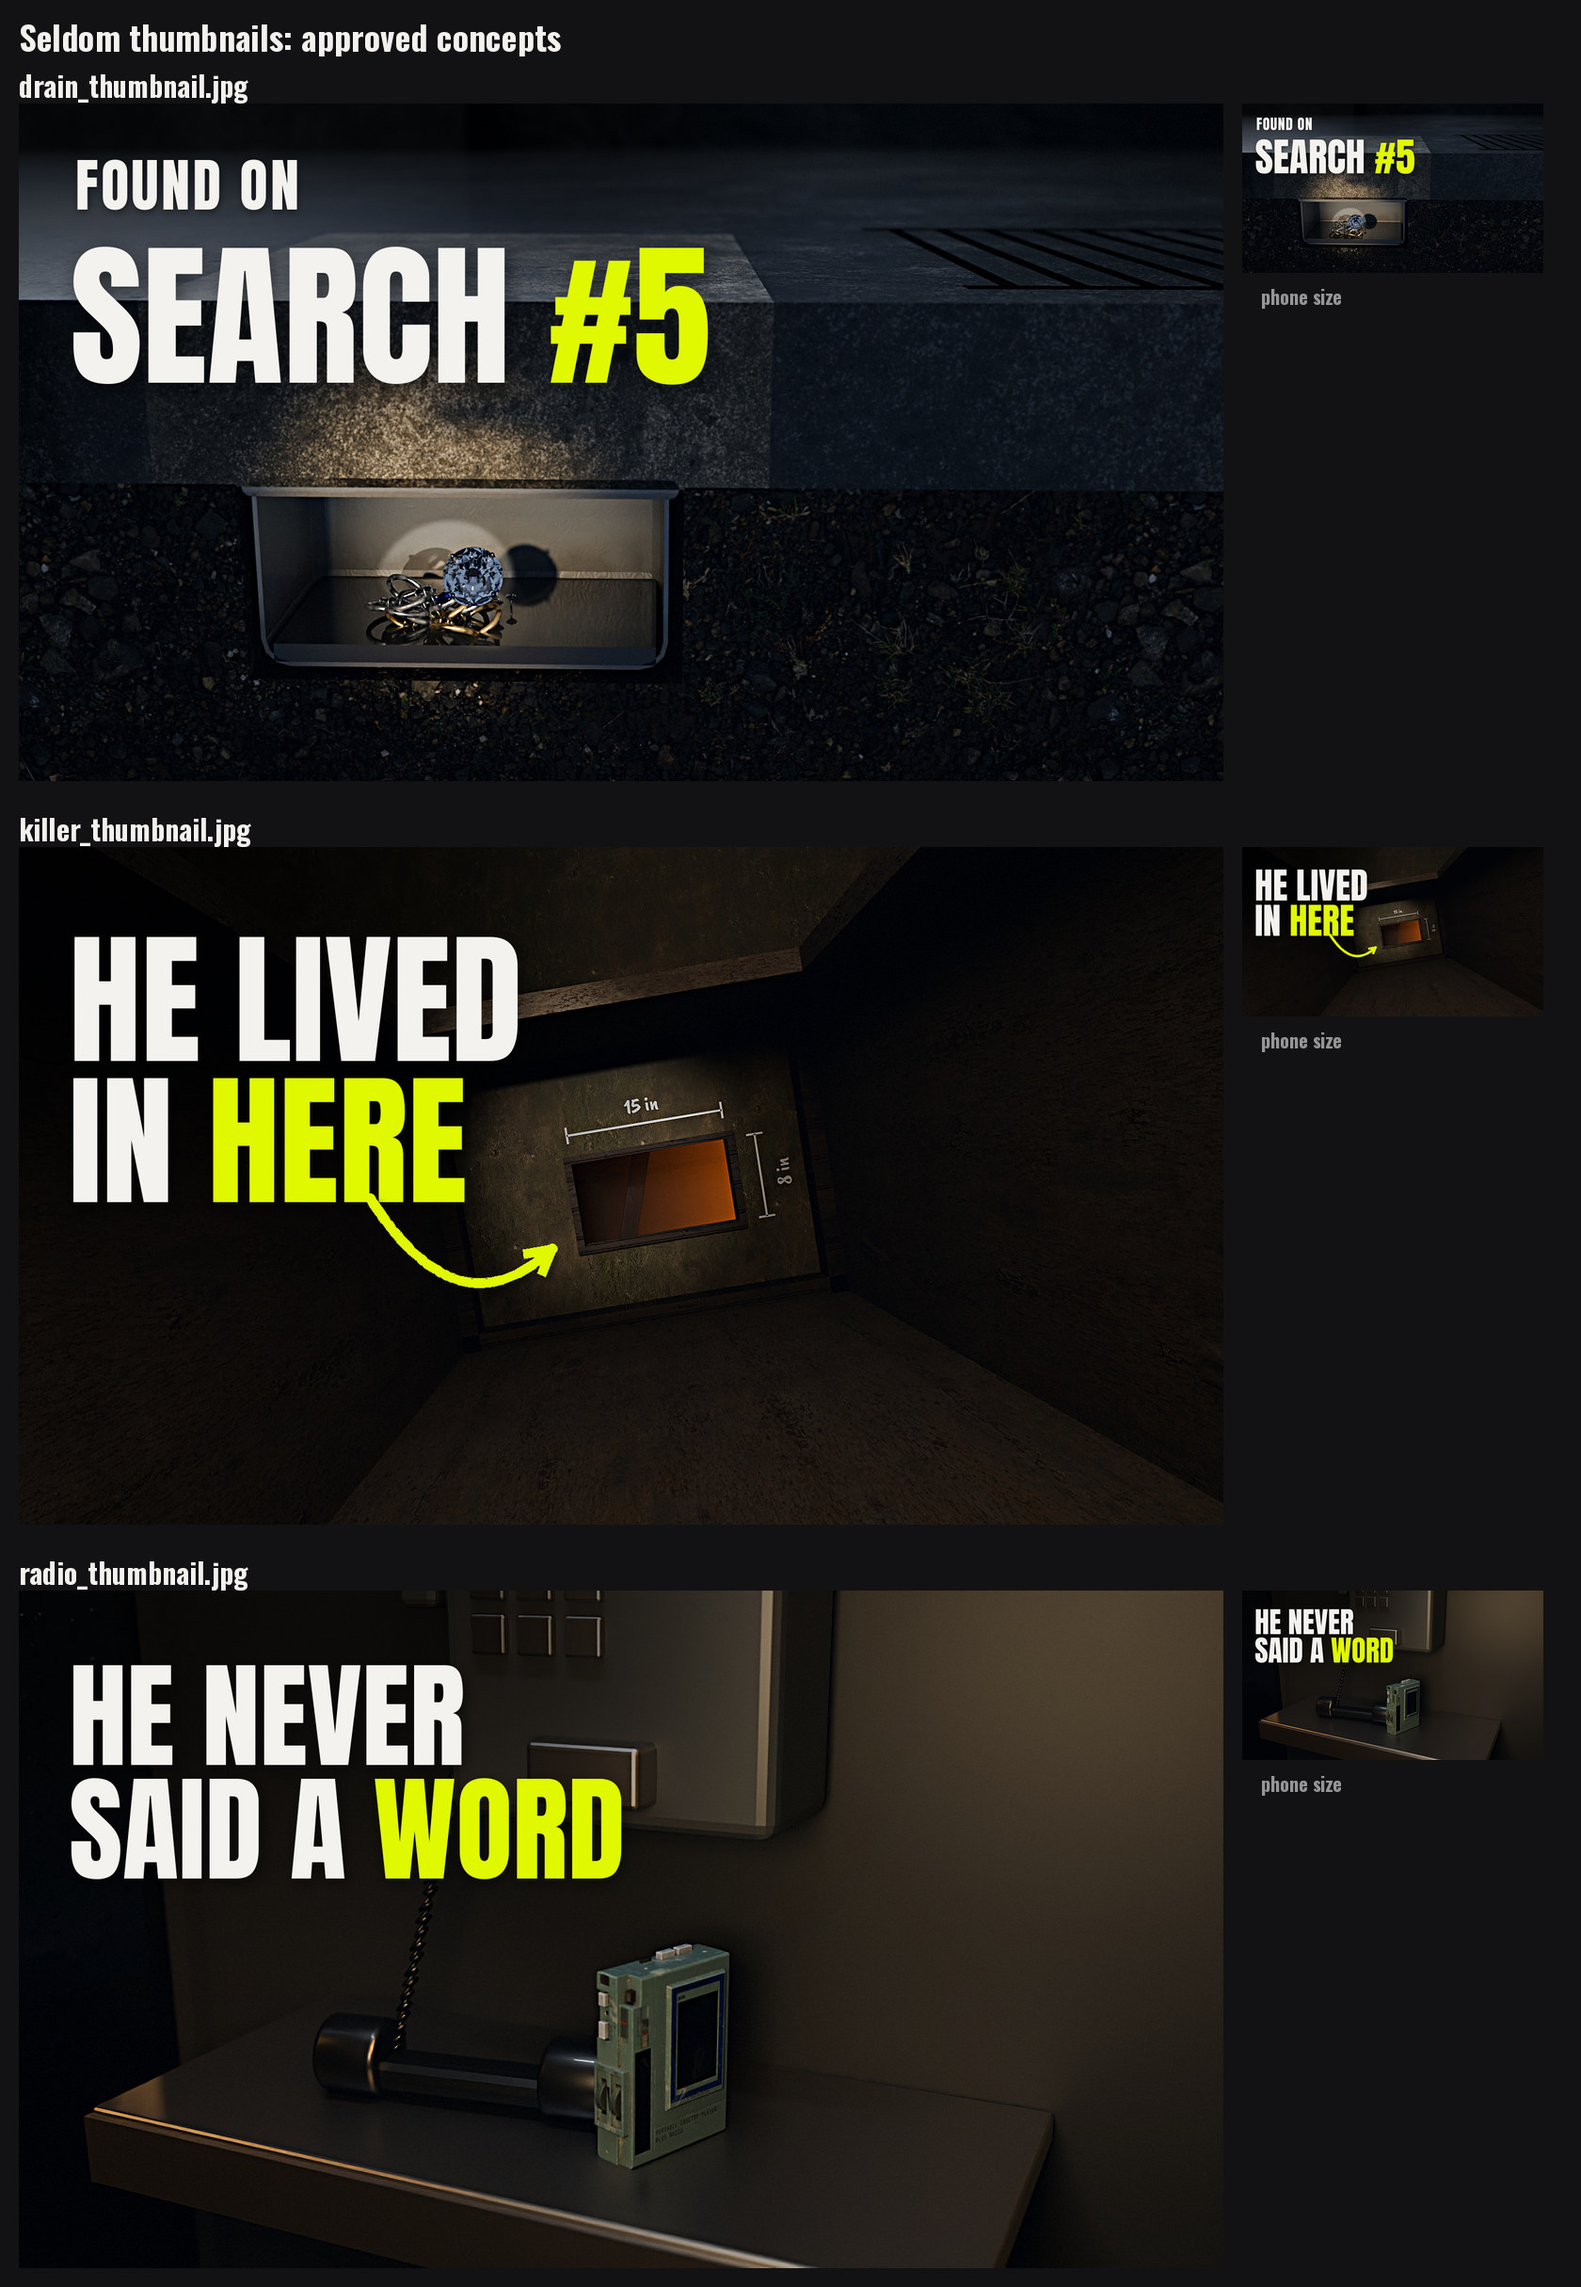
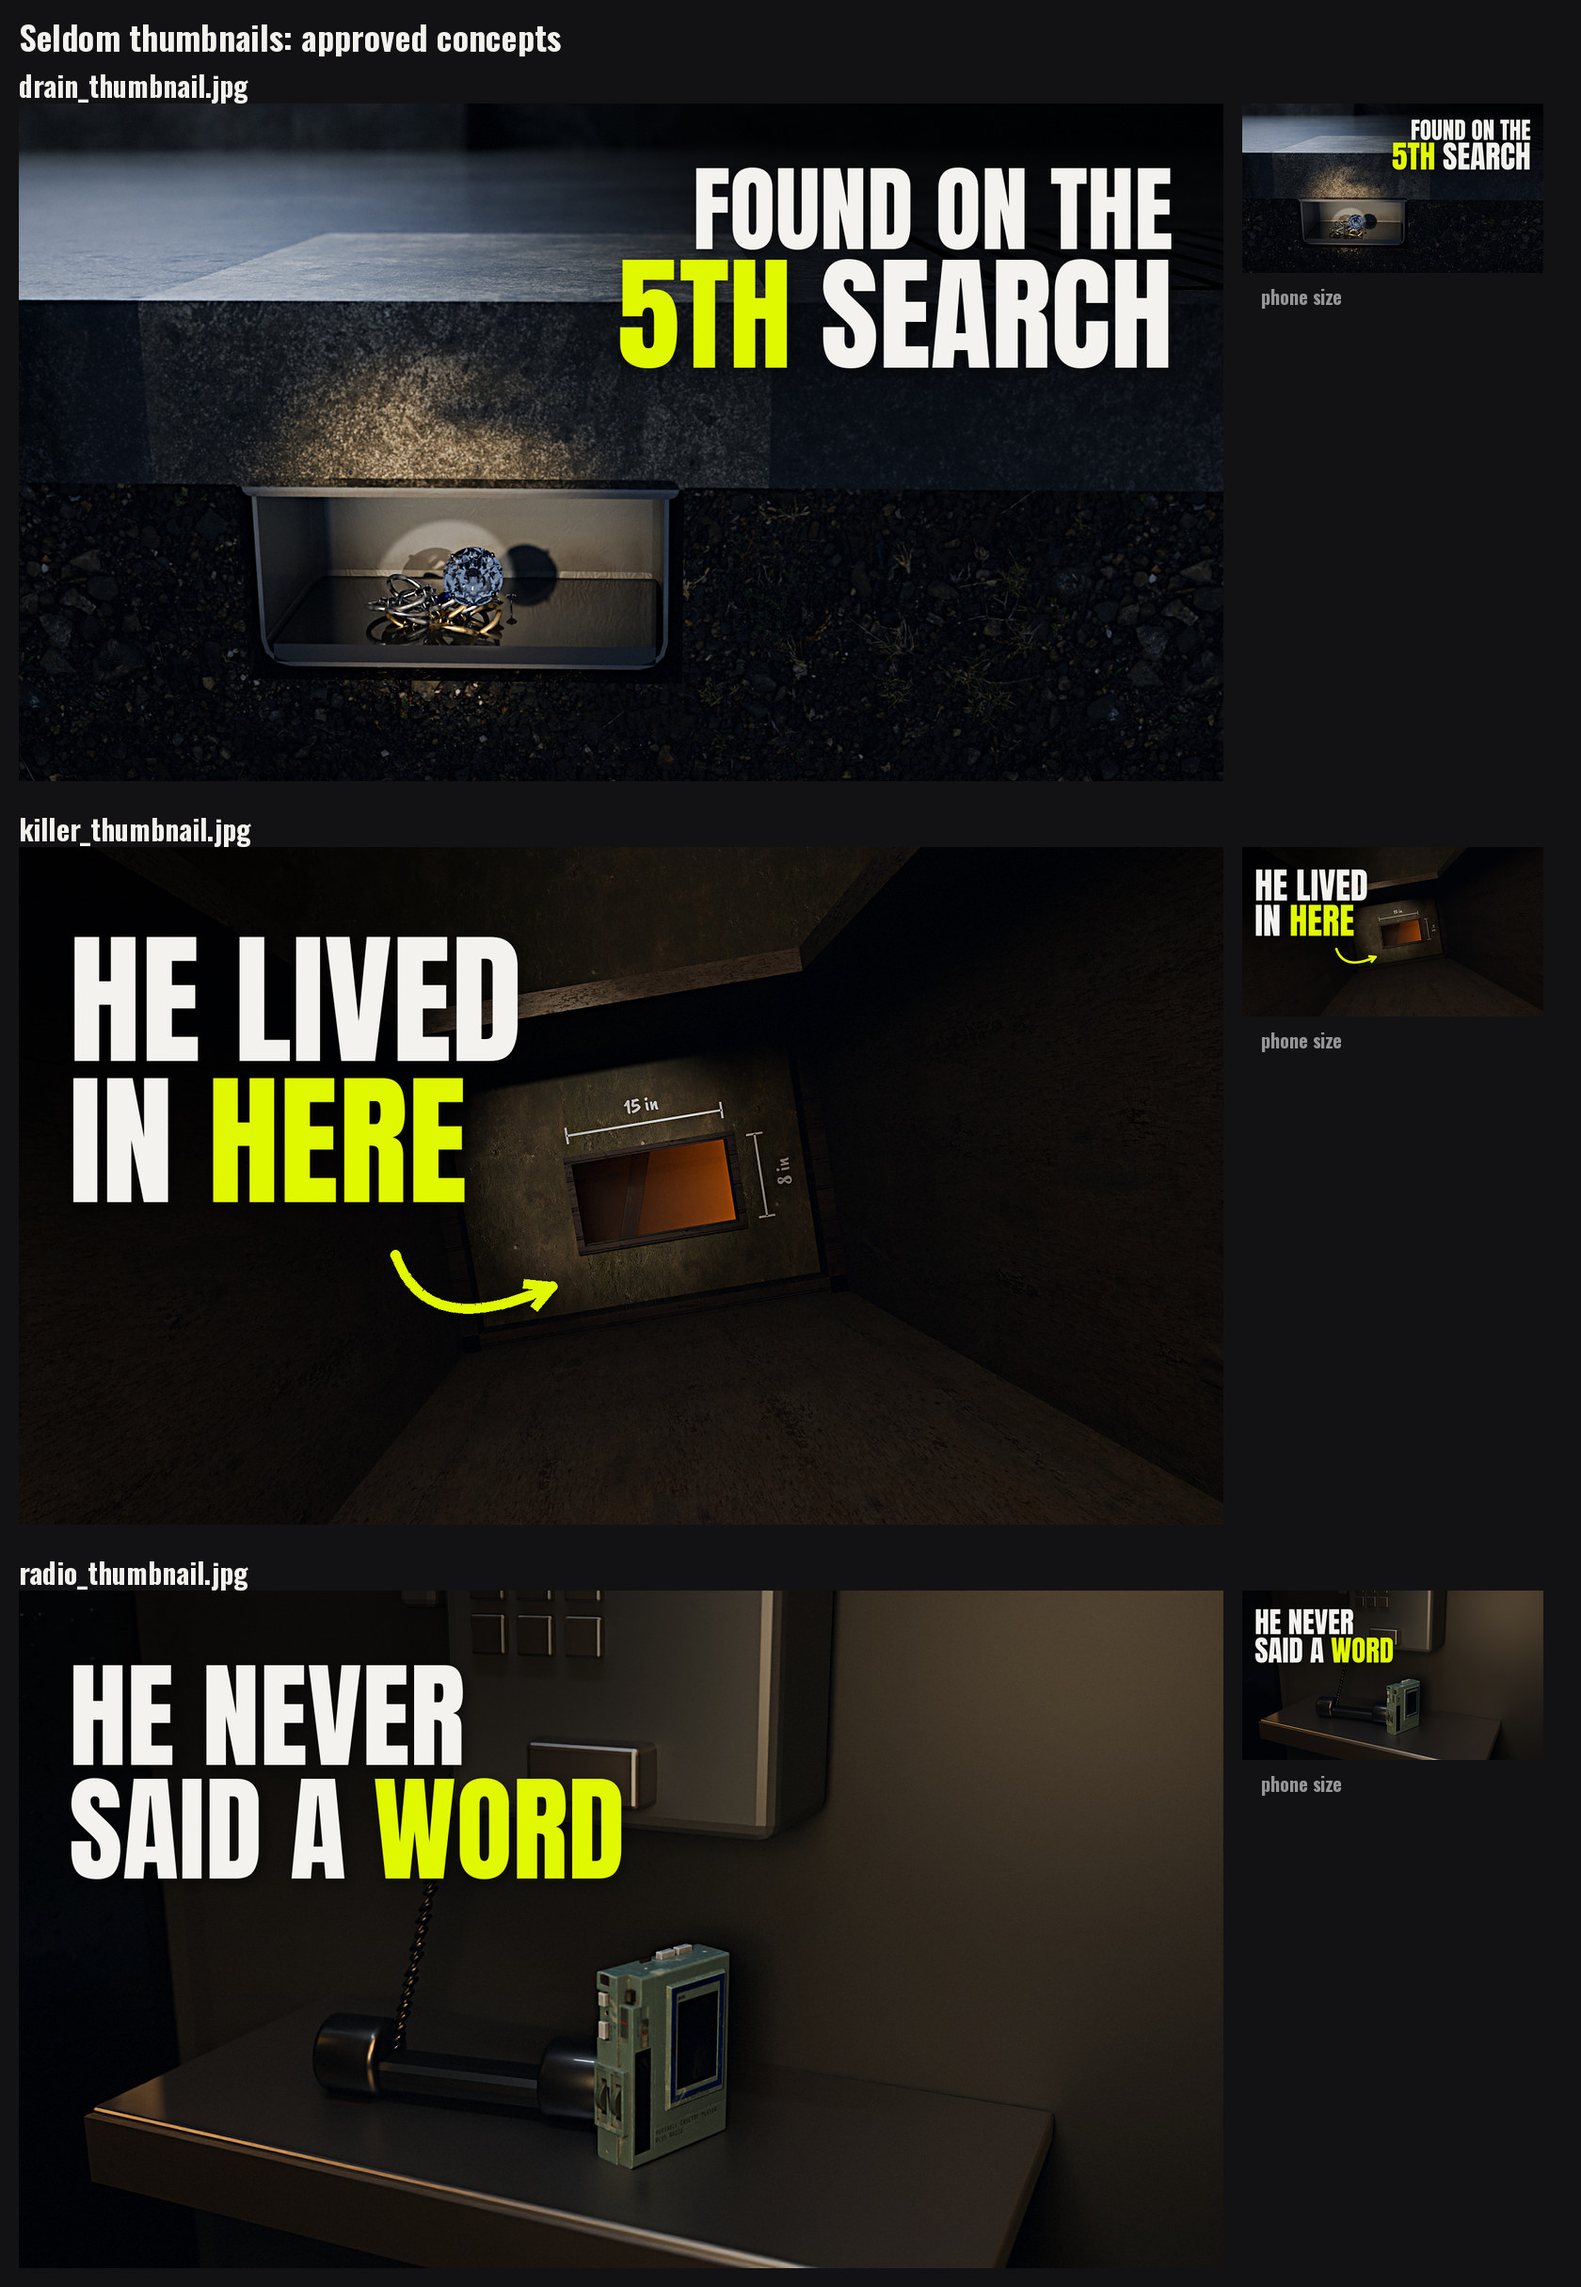
Drain text: FOUND ON THE 5TH SEARCH, right side, tighter lines; killer arrow clear of the word
Claude-Session: https://claude.ai/code/session_01XfwPSoogVpigsa5wWhp6Ys

Changed region(s): [[0.0, 0.0309, 0.7429, 0.1852], [0.7738, 0.0309, 0.9905, 0.0926], [0.2167, 0.5247, 0.3714, 0.5864]]

diff --git a/thumbnails_concepts/render/make.py b/thumbnails_concepts/render/make.py
@@ -69,16 +69,16 @@ def finish(name, plate, build):
 
 
 def drain(g):
-    g = darken(g, (0, 0, 1150, 300), 0.75, 160)
-    t = draw_text(g, ["FOUND ON"], 90, 60, 92, font="anton", color=WHITE, tracking=4)
-    t = draw_text(t, [[("SEARCH ", WHITE), ("#5", LIME)]], 82, 150, 250, font="anton")
+    g = darken(g, (900, 0, W, 380), 0.75, 170)
+    t = draw_text(g, ["FOUND ON THE"], W - 80, 55, 150, font="anton", color=WHITE, anchor="ra")
+    t = draw_text(t, [[("5TH", LIME), (" SEARCH", WHITE)]], W - 80, 185, 200, font="anton", anchor="ra")
     return t
 
 
 def killer(g):
     g = darken(g, (0, 0, 820, 640), 0.7, 180)
     t = draw_text(g, ["HE LIVED", [("IN ", WHITE), ("HERE", LIME)]], 80, 70, 230, font="anton", spacing=0.98)
-    return marker_arrow(t, ((560, 560), (700, 780), (850, 640)))
+    return marker_arrow(t, ((600, 650), (650, 790), (850, 700)))
 
 
 def radio(g):
